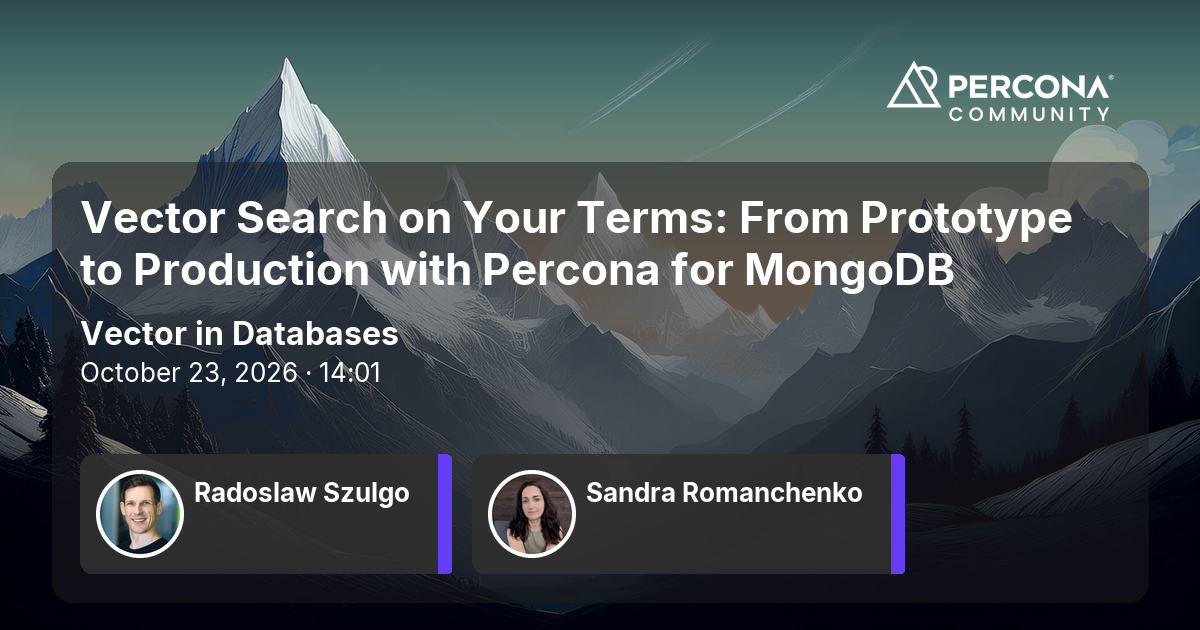
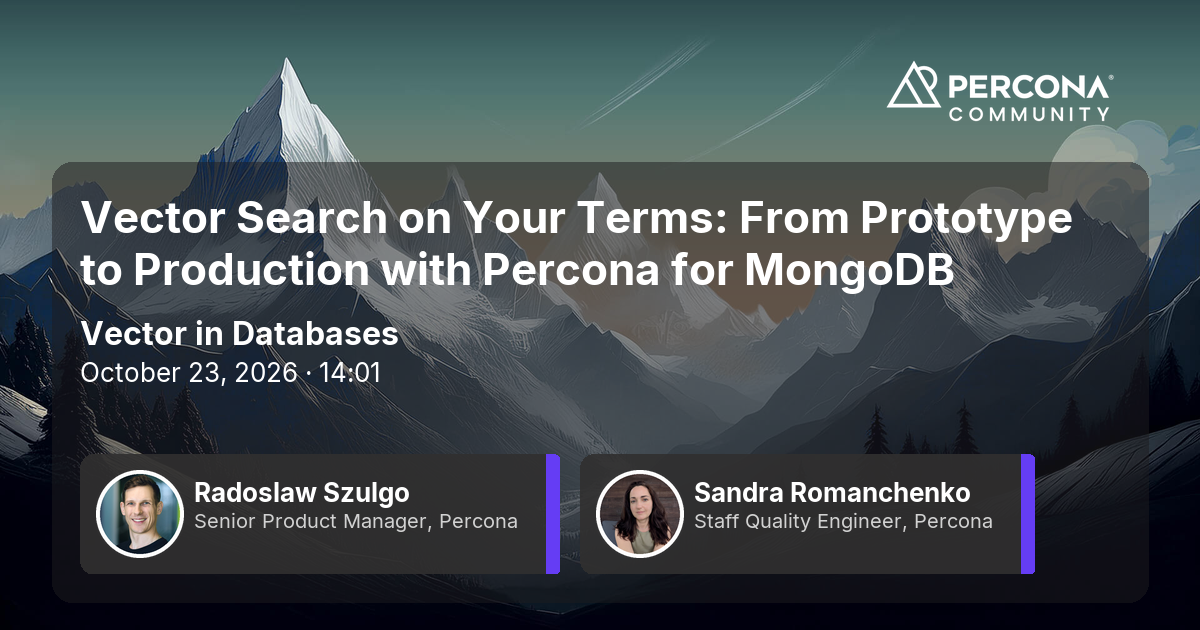
Show Sandra and Radoslaw roles on their talk card.
The talk card reads job, and their titles were only in tagline.

Changed region(s): [[0.1542, 0.7238, 0.8633, 0.9349]]

diff --git a/content/contributors/sandra_romanchenko.md b/content/contributors/sandra_romanchenko.md
@@ -3,7 +3,8 @@ name: sandra_romanchenko
 name_pronunciation: sandra_romanchenko
 fullname: Sandra Romanchenko
 fullname_pronounciation: Sandra Romanchenko
-tagline: Staff Quality Engineer, Percona
+job: Staff Quality Engineer, Percona
+tagline: null
 social:
   facebook: null
   github: null

diff --git a/content/contributors/radoslaw_szulgo.md b/content/contributors/radoslaw_szulgo.md
@@ -3,7 +3,8 @@ name: radoslaw_szulgo
 name_pronunciation: radoslaw_szulgo
 fullname: Radoslaw Szulgo
 fullname_pronounciation: Radoslaw Szulgo
-tagline: Senior Product Manager, Percona
+job: Senior Product Manager, Percona
+tagline: null
 social:
   facebook: null
   github: null
